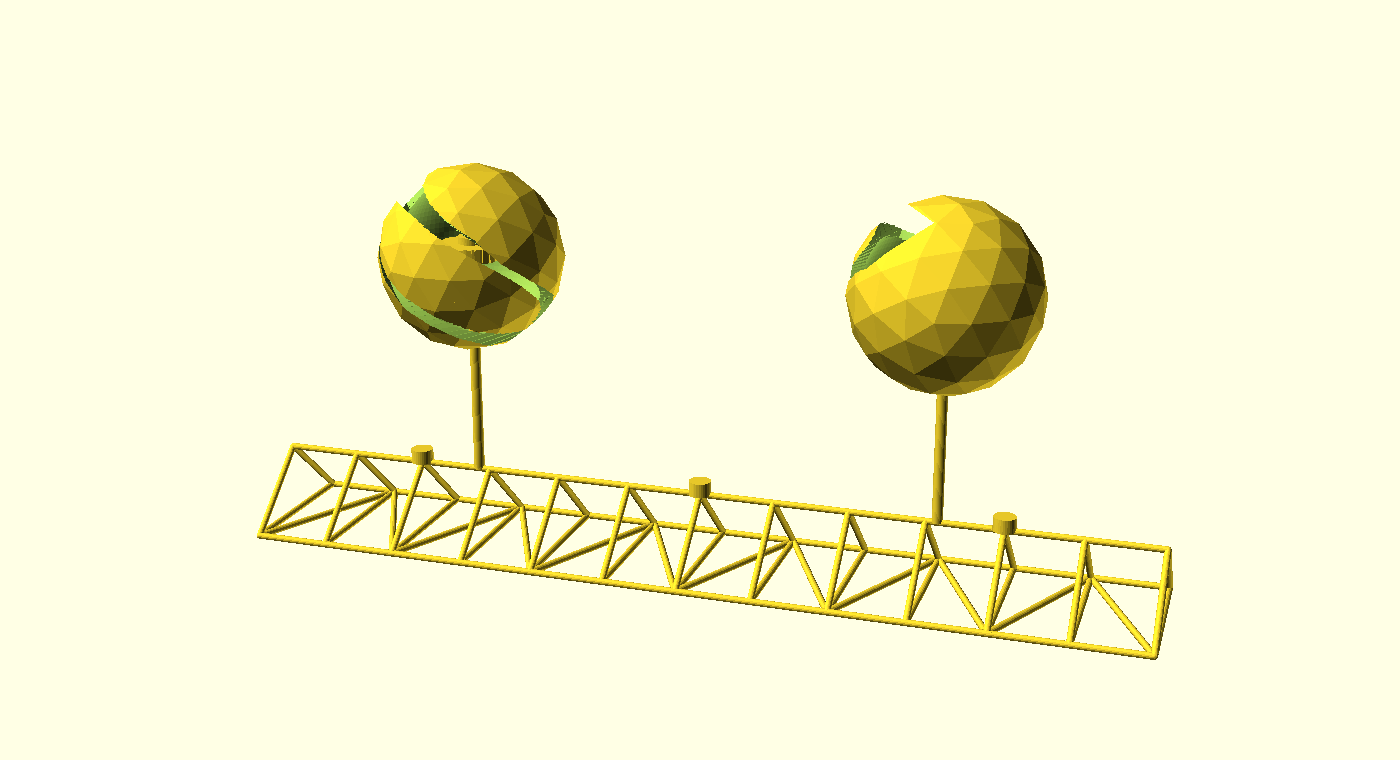
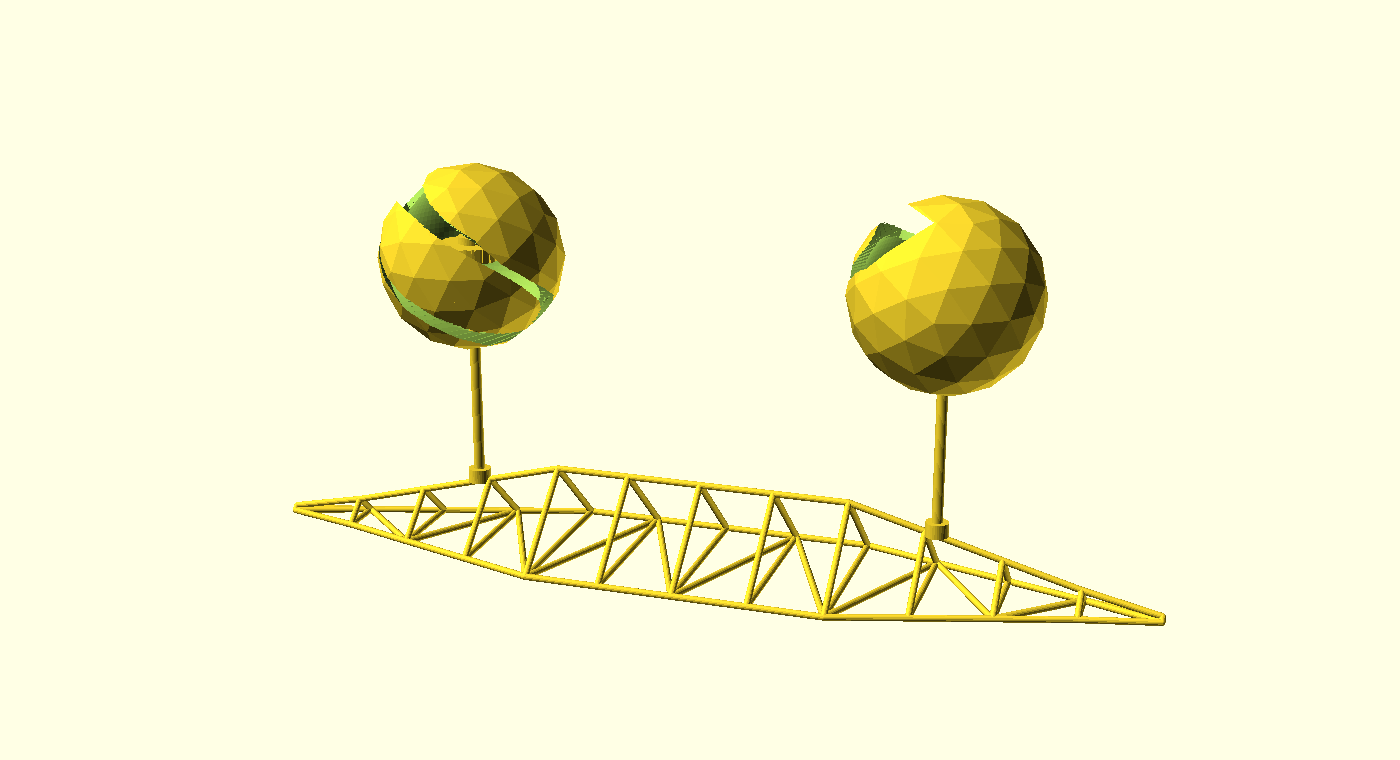
ovodyo: taper the base into a needle-pointed space-frame (clone fidelity)
The v0 base was a constant-height box truss; the reference base is a long,
shallow lattice that tapers to sharp needle points at both ends. Reshape it
into a triangular-section space-frame whose width AND height follow base_t(x):
full across the centre third, then linear to a small nub over each end third —
so the middle is full-section and the outer thirds point, matching the
reference silhouette and its three-bolted-segment structure.

Parts: base-segment is now the constant CENTRE segment; add base-end, one of
the two tapering end wings (each carries a stalk boss over its motor pod).
Both gate 100/100 watertight; the needle tip slices clean. Stalks now seat on
the tapered ridge height (base_h). truss_w 66->76, truss_h 30->34 to match the
~78 mm reference depth. ci.parts, README, NOTES updated.

The reusable lib/spaceframe.scad and the red structural core stay #603 (same
split as the geodesic-ball generator: in-design fidelity now, lib promotion via
its issue). gate.sh --slice ovodyo: 84/84/100/100/100, all slice.

Claude-Session: https://claude.ai/code/session_012qZyQcUysDeZprbtZB1rJB

Changed region(s): [[0.1843, 0.575, 0.86, 0.8776]]

diff --git a/designs/ovodyo/NOTES.md b/designs/ovodyo/NOTES.md
@@ -36,6 +36,15 @@ were produced in-session (design study + `ovodyo-improvement-brainstorm.md`).
   knife-edge thin spots (a scaled faceted copy leaves them).
 - **Printable unit = hemisphere:** a whole ball prints on a point (CRITICAL bed
   contact). The ball halves cut at the equator and print flat-face-down.
+- **Base = tapered space-frame:** the reference base is a long shallow lattice
+  that tapers to needle points at both ends. Modelled as a triangular section
+  (two bottom chords + a ridge, Warren-diagonal bottom deck) whose width AND
+  height follow `base_t(x)`: full across the centre segment (`|x| <= seg_len/2`),
+  then linear down to a small nub over each end segment — so the middle third is
+  full-section and the outer thirds point. Three bolted segments: a constant
+  `base-segment` (centre) and two mirror `base-end` wings (tapering, each carrying
+  a stalk boss over its motor pod). Both gate 100/100. The reusable
+  `lib/spaceframe.scad` and the red structural core stay #603.
 
 ## v0 simplifications → which issue upgrades each
 
@@ -44,7 +53,7 @@ were produced in-session (design study + `ovodyo-improvement-brainstorm.md`).
 | Numerals **debossed**, not cut-through; arbitrary per-face rotation; default font | #601 (parametric stencil glyphs + two-sided `fusecheck` counter gate) |
 | Two-tone invisible in single-material render | #600 (two-tone reveal render) |
 | Helical slot is a fixed inline cut | #601 (tunable `helical_window` brand module + sever-guard) |
-| Base is a **straight rectangular** truss (reference tapers to needle points) | #603 (`lib/spaceframe.scad`) |
+| Base tapers in-design but has **no red structural core** and isn't a reusable lib | #603 (`lib/spaceframe.scad` + the red core box) |
 | Ball splits as a **crude flat hemisphere**, glued | #602 (flat great-circle mating ring, threaded/snap) |
 | Deliverable gated as loose parts; no `ci.plate` | #604 (`ci.plate`/`ci.fusecheck` multi-object 3MF) |
 | Drive is a **placeholder** spur-disc cluster | #604 (`lib/bevel.scad` real differential) + #600 (kinematics gate proves it lands upright) |
@@ -55,14 +64,17 @@ were produced in-session (design study + `ovodyo-improvement-brainstorm.md`).
 ## Print orientation & gate status
 
 - Ball halves: cut-face-down (flat ring on the bed); faceted dome has overhangs
-  (v0 caveat, #602). Truss segment: as modelled. Mock drive: flat.
+  (v0 caveat, #602). Truss segments: bottom-chord-down (as modelled). Mock drive:
+  flat.
 - `gate.sh --slice ovodyo`: hours-half/minutes-half 84/100 (PRINTABLE WITH
-  CAVEATS — dome overhang, some thin wall), base-segment 100/100, mock-drive
-  100/100; all slice. No CRITICAL, no failure.
+  CAVEATS — dome overhang, some thin wall), base-segment (centre) 100/100,
+  base-end (tapering wing) 100/100, mock-drive 100/100; all slice. No CRITICAL,
+  no failure.
 
 ## Resume context
 
 Entry `ovodyo.scad` dispatches on `part`: assembled | hours-half | minutes-half |
-hours-ball | minutes-ball | base-segment | mock-drive. The `-ball` parts are the
-full shells used only in the assembled preview; the `-half` parts are the
-printable units. Previews are frozen in `previews/cameras.conf`.
+hours-ball | minutes-ball | base-segment | base-end | mock-drive. The `-ball`
+parts are the full shells used only in the assembled preview; the `-half` parts
+are the printable units. `base-segment` is the constant centre truss; `base-end`
+is a tapering end wing (print two). Previews are frozen in `previews/cameras.conf`.

diff --git a/designs/ovodyo/README.md b/designs/ovodyo/README.md
@@ -11,8 +11,9 @@ re-creation, in print-bench, of the "ovodyo" clock by Mectolab — built as a
 > gates and slices, but several signature details are deliberately simplified and
 > tracked as their own issues: numerals are debossed (not yet true cut-through
 > stencil, [#601](https://github.com/shaiss/print-bench/issues/601)); the two-tone red-through-white only appears
-> in the planned two-tone render ([#600](https://github.com/shaiss/print-bench/issues/600)); the base is a plain
-> truss (the tapered space-frame is [#603](https://github.com/shaiss/print-bench/issues/603)); the balls split as
+> in the planned two-tone render ([#600](https://github.com/shaiss/print-bench/issues/600)); the base tapers to
+> needle points but has no red structural core, and isn't yet a reusable
+> space-frame library ([#603](https://github.com/shaiss/print-bench/issues/603)); the balls split as
 > crude hemispheres (a proper flat seam is [#602](https://github.com/shaiss/print-bench/issues/602)); and the
 > internal drive is a placeholder (a real bevel differential is
 > [#604](https://github.com/shaiss/print-bench/issues/604)). See NOTES.md.
@@ -30,8 +31,10 @@ whole clock would print as one fused lump):
 
 - `hours-half` / `minutes-half` — one hemisphere of each ~78 mm faceted ball,
   printed flat-face-down (print two of each for a full ball).
-- `base-segment` — one ~127 mm triangulated truss segment (three make the
-  383 mm base).
+- `base-segment` — the constant-section **centre** truss segment (~127 mm).
+- `base-end` — one of the two **tapering end wings** that come to a needle point
+  and carry a stalk boss over the motor pod (print two; three segments total make
+  the ~383 mm base).
 - `mock-drive` — the v0 placeholder gear cluster that sits inside a ball, visible
   through the slot.
 
@@ -48,8 +51,8 @@ preview.
   **dome does have overhangs** in v0 (an inherent hemisphere caveat) — light
   supports on the ball halves are acceptable until the seam/orientation work in
   [#602](https://github.com/shaiss/print-bench/issues/602).
-- **Orientation:** ball halves cut-face-down; truss segment as modeled; mock
-  drive flat.
+- **Orientation:** ball halves cut-face-down; truss segments bottom-chord-down
+  (as modeled); mock drive flat.
 
 ## Parameters
 
